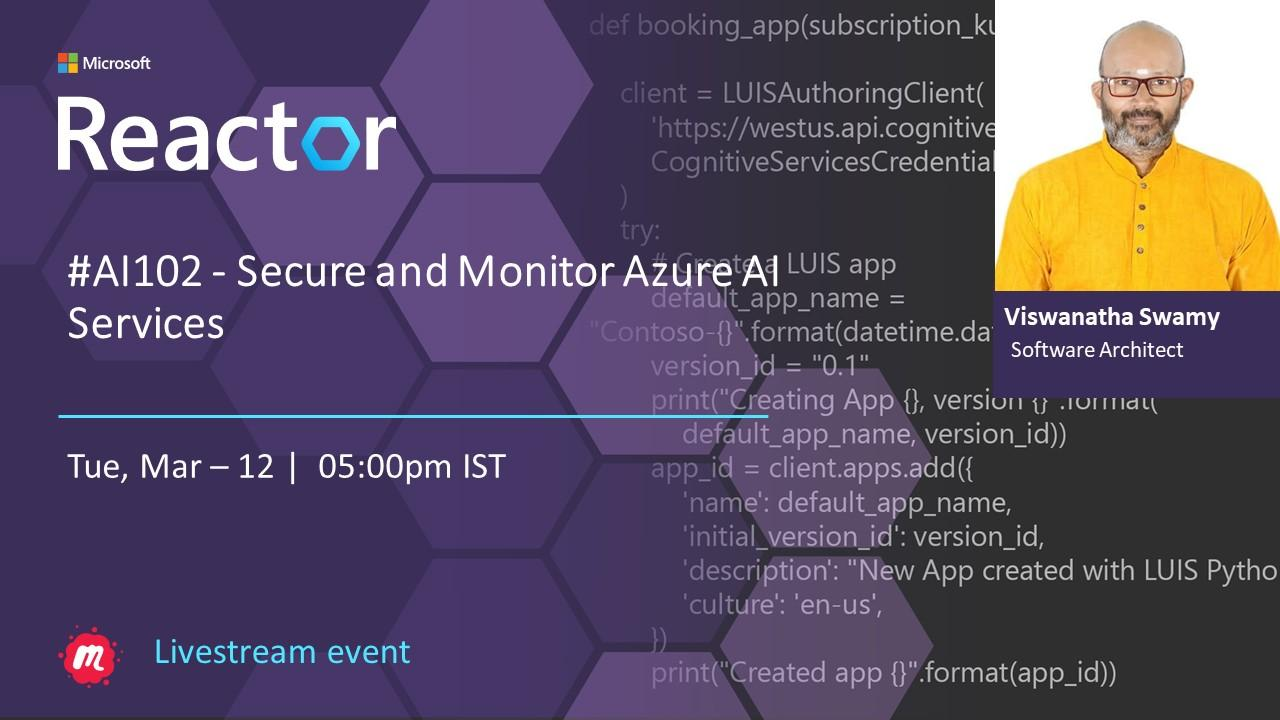
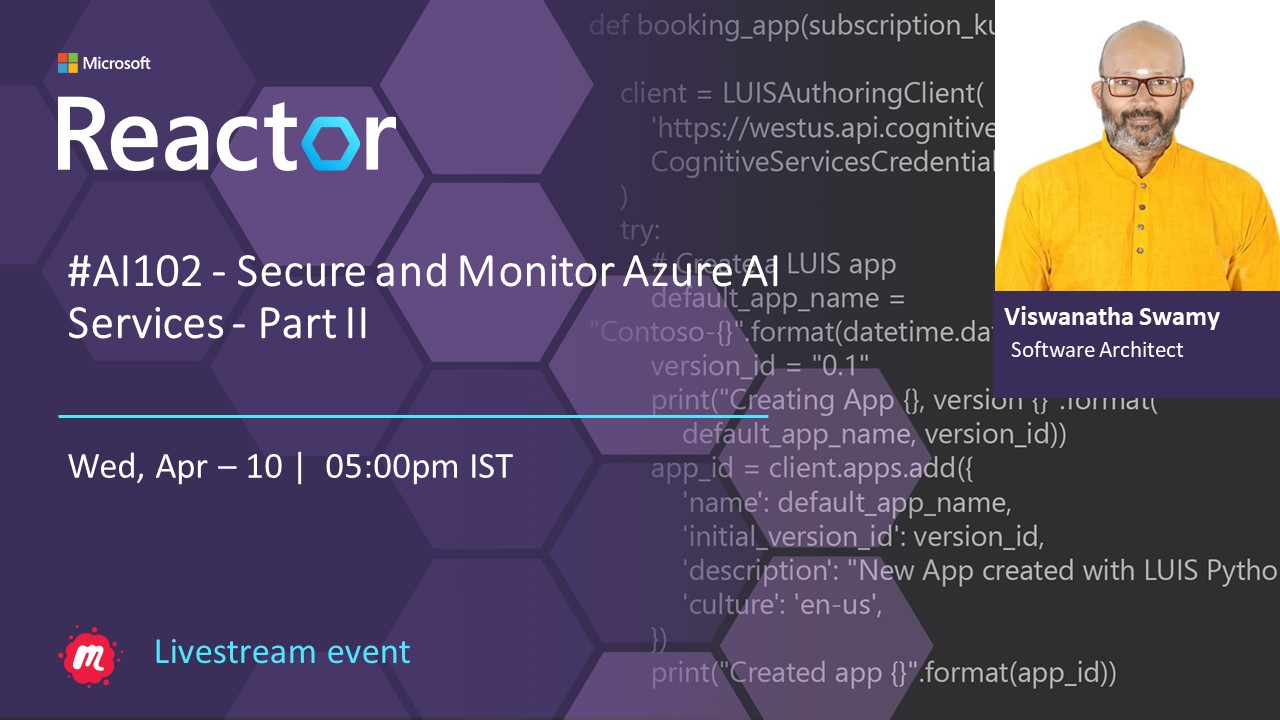
Swamy/06apr work (#41)
* Update README.md

* Update ViswanathaSwamyPK.PNG

* Update README.md

diff --git a/0410_MSFT_Reactor_AI102_S4/README.md b/0410_MSFT_Reactor_AI102_S4/README.md
@@ -4,7 +4,7 @@
 
 ## Event URL: [https://www.meetup.com/microsoft-reactor-bengaluru/events/299764723](https://www.meetup.com/microsoft-reactor-bengaluru/events/299764723)
 
-## YouTube URL: [https://www.youtube.com/watch?v=XJS_9O4WePs](https://www.youtube.com/watch?v=XJS_9O4WePs)
+## YouTube URL: [https://www.youtube.com/watch?v=ToBeDone](https://www.youtube.com/watch?v=ToBeDone)
 
 ## MS Learn Module(s)
 
@@ -65,6 +65,8 @@
 ### Previous Session
 
 > 1. <https://www.youtube.com/watch?v=03dh8I5FZpo>
+> 1. <https://www.youtube.com/watch?v=XJS_9O4WePs>
+> 1. <https://www.youtube.com/watch?v=EGP_t1xjpr4>
 
 ### Current Architecture
 
@@ -81,6 +83,8 @@
 
 > 1. Discussion and Demo
 > 1. Azure AI services multi-service account
+> 1. Resource Group name `rg-ai102-dev-001`
+> 1. Azure AI Services name `azaisvc-ai102-dev-001`
 
 ![Create Azure AI Services | 100x100](./Documentation/Images/AAIServices_Create.PNG)
 
